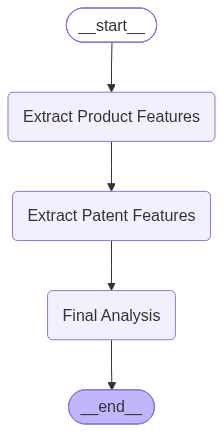
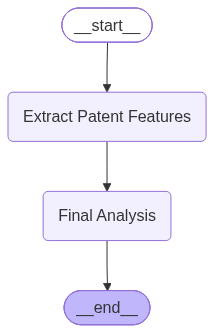
product description once

Changed region(s): [[0.028, 0.0, 0.9813, 0.991]]

diff --git a/app.py b/app.py
@@ -3,10 +3,11 @@ import sqlite3
 import uuid
 from langgraph.types import Command
 import pandas as pd
+from node import llm, feature_parser
 
 # TEST_MODE = True
-
 from graph import workflow
+from node import extract_product_features
 from database import create_table, save_result
 
 st.set_page_config(
@@ -16,7 +17,7 @@ st.set_page_config(
 )
 
 st.title("RelevanceIQ")
-st.subheader("Patent Relevance Analysis with Primary and Secondary Ingredients")
+st.subheader("Patent Relevance Analysis")
 
 create_table()
 
@@ -39,6 +40,15 @@ if "product_description" not in st.session_state:
 
 if "relevance_framework" not in st.session_state:
     st.session_state.relevance_framework = ""
+
+if "primary_product_features" not in st.session_state:
+    st.session_state.primary_product_features = []   
+
+if "secondary_product_features" not in st.session_state:
+    st.session_state.secondary_product_features = []
+
+if "product_features_approved" not in st.session_state:
+    st.session_state.product_features_approved = False
 
 #-----------------------------
 ## Inputs 
@@ -74,19 +84,127 @@ if run:
         st.warning("Please provide the relevance framework.")
         st.stop()
 
-
     st.session_state.df = pd.read_excel(uploaded_file)
-
     st.session_state.product_description = product_description
     st.session_state.relevance_framework = relevance_framework
 
     st.session_state.results = []
     st.session_state.current_index = 0
+
+    st.session_state.primary_product_features = []
+    st.session_state.secondary_product_features = []
+    st.session_state.product_features_approved = False
+
     st.session_state.analysis_started = True
 
     st.session_state.session_id = str(uuid.uuid4())
 
     st.rerun()
+
+# ----------------------------------------------------
+# EXTRACT PRODUCT FEATURES ONCE
+# ----------------------------------------------------
+
+if (
+    st.session_state.analysis_started
+    and not st.session_state.product_features_approved
+):
+
+    # First extraction
+    if not st.session_state.primary_product_features and not st.session_state.secondary_product_features:
+
+        st.info("Extracting product features for review...")
+
+        product_prompt = f"""
+You are an experienced patent analyst.
+
+Extract only the technical features from the product description.
+
+Classify every extracted feature into either PRIMARY or SECONDARY.
+
+PRIMARY FEATURES:
+- Features central to the product's main technical function.
+- Features that directly perform the core technical operation.
+- Features that are important to the core technical concept.
+
+SECONDARY FEATURES:
+- Supporting or auxiliary features.
+- Features that are not central to the main technical operation.
+
+Rules:
+- Do not invent features which are not explicitly mentioned.
+- One feature per list item.
+- Keep each feature concise.
+- Preserve technical terminology.
+
+{feature_parser.get_format_instructions()}
+
+Product Description:
+{st.session_state.product_description}
+"""
+
+        from langchain_core.messages import HumanMessage
+        from node import llm, feature_parser
+
+        response = llm.invoke(
+            [HumanMessage(content=product_prompt)]
+        )
+
+        result = feature_parser.parse(response.content)
+
+        st.session_state.primary_product_features = (
+            result.primary_features
+        )
+
+        st.session_state.secondary_product_features = (
+            result.secondary_features
+        )
+
+        st.rerun()
+
+    # Human approval
+    st.subheader("Review Product Features")
+
+    edited_primary = st.text_area(
+        "Primary Product Features",
+        value="\n".join(
+            st.session_state.primary_product_features
+        ),
+        height=250,
+        key="product_primary_review"
+    )
+
+    edited_secondary = st.text_area(
+        "Secondary Product Features",
+        value="\n".join(
+            st.session_state.secondary_product_features
+        ),
+        height=150,
+        key="product_secondary_review"
+    )
+
+    if st.button(
+        "Approve Product Features",
+        key="approve_product_features"
+    ):
+
+        st.session_state.primary_product_features = [
+            x.strip()
+            for x in edited_primary.split("\n")
+            if x.strip()
+        ]
+
+        st.session_state.secondary_product_features = [
+            x.strip()
+            for x in edited_secondary.split("\n")
+            if x.strip()
+        ]
+
+        st.session_state.product_features_approved = True
+
+        st.rerun()
+
+    st.stop()    
 
 # Process one patent at a time
 # ----------------------------------------------------
@@ -144,39 +262,26 @@ if st.session_state.analysis_started:
                 "product_description": st.session_state.product_description,
 
                 "publication_number": row["Publication Number"],
-
                 "title": row["title"],
-
                 "abstract": row["Abstract"],
-
                 "independent_claim": row["Independent Claim"],
-
                 "all_claims": row["All Claims"],
-
                 "relevance_framework": st.session_state.relevance_framework,
-
                 # "product_features": [],
-                "primary_product_features": [],
-                "secondary_product_features": [],
-
+                "primary_product_features": st.session_state.primary_product_features,
+                "secondary_product_features":  st.session_state.secondary_product_features,
                 # "patent_features": [],
                 "primary_patent_features": [],
                 "secondary_patent_features": [],
-
                 "comparison": [],
 
                 "relevance": "",
 
                 "confidence": 0,
-
                 "rationale": "",
-
                 "relevance_framework_only": "",
-
                 "confidence_framework_only": 0,
-
                 "rationale_framework_only": "",
-
                 "review_type": ""
 
             }
@@ -195,8 +300,6 @@ if st.session_state.analysis_started:
             if snapshot.interrupts:
                 print(snapshot.interrupts[0].value)
 
-
-        # Waiting for human review
         # if snapshot.next:
         if snapshot.interrupts:    
 
@@ -205,18 +308,6 @@ if st.session_state.analysis_started:
             st.info(
                 f"Review the extracted {review['review_type']} features"
             )
-
-            # edited = st.text_area(
-
-            #     "Edit Features",
-
-            #     value="\n".join(review["features"]),
-
-            #     height=250,
-
-            #    key=f"review_{index}_{review['review_type']}"
-
-            # )
 
             st.subheader("Primary Features")
 

diff --git a/node.py b/node.py
@@ -41,12 +41,11 @@ Rules
 - Preserve technical terminology.
 
 {feature_parser.get_format_instructions()}
-Product Description
+Product Descriptions
 
 {state["product_description"]}
 
 """
-
     start = time.time()
 
     response = llm.invoke(
@@ -59,17 +58,12 @@ Product Description
 
     print("=" * 80)
     result = feature_parser.parse(response.content)
-    # state["product_features"] = result.features
-    # return state
     state["primary_product_features"] = result.primary_features
     state["secondary_product_features"] = result.secondary_features
-
     state["review_type"] = "product"
-
     approved = interrupt(
         {
             "review_type": "product",
-            # "features": result.features
             "primary_features": result.primary_features,
             "secondary_features": result.secondary_features
         }
@@ -127,13 +121,11 @@ All Claims:
 """
 
     start = time.time()
-
     response = llm.invoke(
         [HumanMessage(content=prompt)]
     )
 
     print('Patent feature extraction duration:' , time.time() - start)
-
     try:
 
         result = feature_parser.parse(response.content)
@@ -162,7 +154,6 @@ All Claims:
     approved = interrupt(
         {
             "review_type": "patent",
-
             "publication_number":
                 state["publication_number"],
 

diff --git a/graph.py b/graph.py
@@ -3,7 +3,7 @@ from langgraph.checkpoint.memory import InMemorySaver
 from state import RelevanceState
 
 from node import(
-    extract_product_features,
+    # extract_product_features,
     extract_patent_features,
     final_analysis
 )
@@ -12,10 +12,10 @@ from node import(
 graph = StateGraph(RelevanceState)
 
 # Nodes
-graph.add_node(
-    "Extract Product Features",
-     extract_product_features
-)
+# graph.add_node(
+#     "Extract Product Features",
+#      extract_product_features
+# )
 
 graph.add_node(
     "Extract Patent Features",
@@ -29,13 +29,14 @@ graph.add_node(
 
 graph.add_edge(
     START,
-    "Extract Product Features"
+    "Extract Patent Features"
+    # "Extract Product Features"
 )
 
-graph.add_edge(
-    "Extract Product Features",
-    "Extract Patent Features"
-)
+# graph.add_edge(
+#     # "Extract Product Features",
+#     "Extract Patent Features"
+# )
 
 graph.add_edge(
     "Extract Patent Features",

diff --git a/llm.py b/llm.py
@@ -11,6 +11,7 @@ OPENAI_API_KEY = os.getenv("OPENAI_API_KEY")
 openai_llm = ChatOpenAI(
     model="gpt-5",
     temperature=0,
+    seed=42,
     api_key=OPENAI_API_KEY
 )
 
@@ -20,6 +21,7 @@ hf_endpoint = HuggingFaceEndpoint(
     repo_id="meta-llama/Llama-3.1-8B-Instruct",
     huggingfacehub_api_token=HF_TOKEN,
     temperature=0,
+    seed=42,
     max_new_tokens=4096
 )
 
@@ -28,9 +30,6 @@ hf_endpoint = HuggingFaceEndpoint(
 # )
 
 # Select the model to use
-
 llm = openai_llm
-
-
 
 # llm = huggingface_llm
